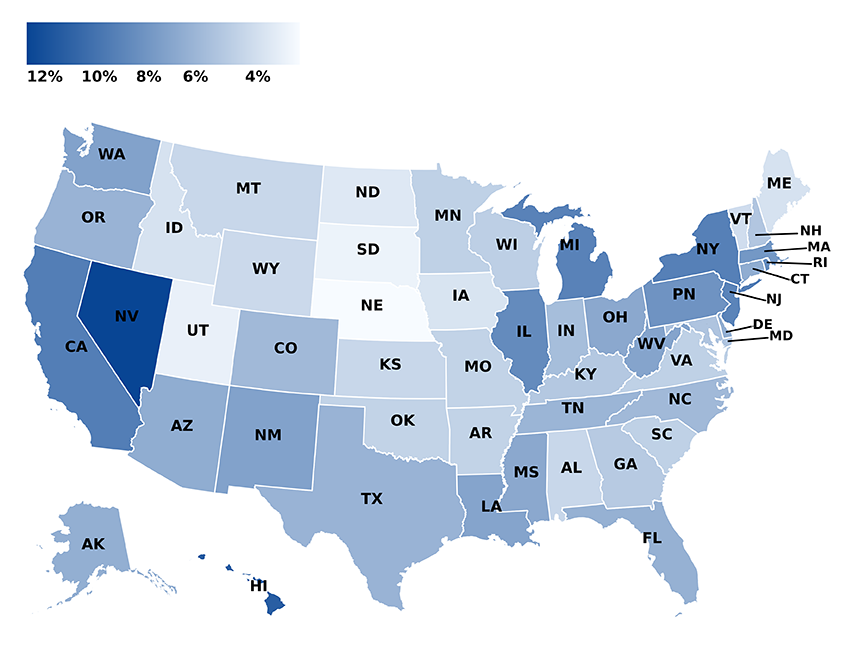
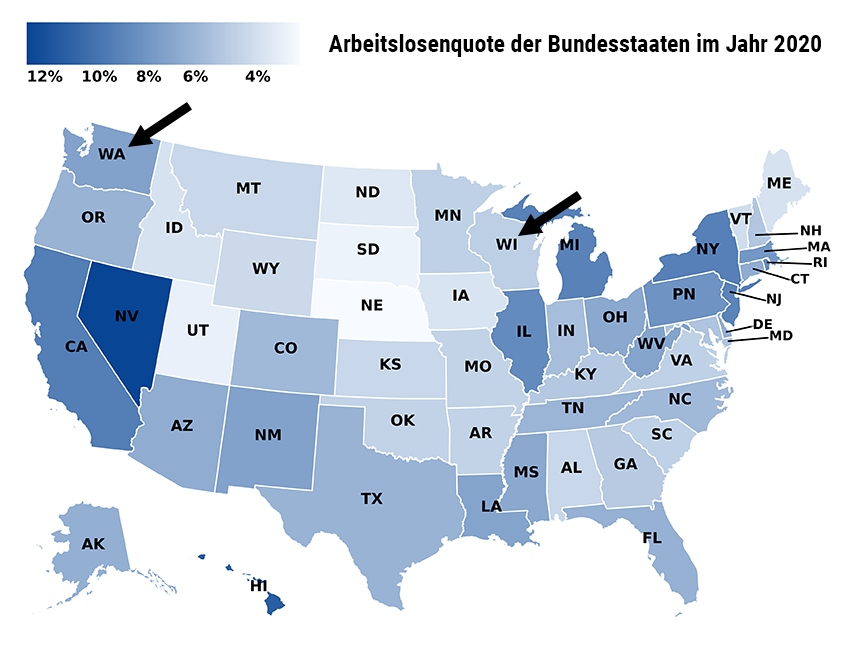
fix: update image references in index.md to new chart files and update image files

diff --git a/src/index.md b/src/index.md
@@ -2018,7 +2018,7 @@ const miniVlatImageUrls = {
   mv1: await FileAttachment("./data/de/TreeMap.png").url(),
   mv2: await FileAttachment("./data/de/Stacked100.png").url(),
   mv3: await FileAttachment("./data/de/Histogram.png").url(),
-  mv4: await FileAttachment("./data/de/Choropleth.png").url(),
+  mv4: await FileAttachment("./data/de/Choropleth_New.png").url(),
   mv5: await FileAttachment("./data/de/PieChart.png").url(),
   mv6: await FileAttachment("./data/de/BubbleChart.png").url(),
   mv7: await FileAttachment("./data/de/StackedBar.png").url(),
@@ -3336,12 +3336,21 @@ ${answerSleepInputD}
 
 </div>
 <div class="scroll-section card" data-step="18">
-Schaut man nur auf die Mediane, könnte man meinen: Die Werte der Männer liegen klar über denen der Frauen. Blicken wir jedoch auf die Verteilungen, zeigt sich, dass es längst nicht so eindeutig ist. Gleichzeitig wird die Interpretation dadurch anspruchsvoller.
+
+Bisher haben wir uns, wie eingangs beschrieben, auf eine große Datenmenge von über 150.000 Personen bezogen.
+Die folgenden 4 Fragen drehen sich um den Vergleich von zwei kleineren Gruppen. Dafür wurden aus der großen Gruppe zufällig 200 gleichaltrige Personen ausgewählt und in zwei Gruppen aufgeteilt: Gruppe A und Gruppe B, jeweils mit 100 Personen.
+
+Obwohl alle Personen gleich alt sind, kann es durch die zufällige Auswahl passieren, dass die Gruppen unterschiedlich lange schlafen. Zum Beispiel könnte in einer Gruppe zufällig ein größerer Anteil an Langschläfern sein als in der anderen. Es kann aber auch sein, dass sich die Gruppen in ihrer Schlafdauer sehr ähnlich sind.
+
+In den folgenden 4 Fragen sehen Sie jeweils die Schlafdauer-Verteilungen beider Gruppen nebeneinander.
+Stellen Sie sich 100 zufällige Vergleiche vor: Jedes Mal wählen Sie gedanklich eine Person aus Gruppe A und eine Person aus Gruppe B und vergleichen deren Schlafdauer.
 
 ---
 
 ${(variant === "all" ? Object.keys(plotsA) : [variant])
 .map(k => resize((width) => plotsA[k](width)))}
+
+Wie häufig kommt es vor, dass eine Person aus Gruppe A kürzer schläft, als eine Person aus Gruppe B?
 
 ${estimateInputQuantityA}
 
@@ -3352,12 +3361,11 @@ ${answerQuantityInputA}
 
 </div>
 <div class="scroll-section card" data-step="19">
-Schaut man nur auf die Mediane, könnte man meinen: Die Werte der Männer liegen klar über denen der Frauen. Blicken wir jedoch auf die Verteilungen, zeigt sich, dass es längst nicht so eindeutig ist. Gleichzeitig wird die Interpretation dadurch anspruchsvoller.
-
----
 
 ${(variant === "all" ? Object.keys(plotsB) : [variant])
 .map(k => resize((width) => plotsB[k](width)))}
+
+Wie häufig kommt es vor, dass eine Person aus Gruppe A kürzer schläft, als eine Person aus Gruppe B?
 
 ${estimateInputQuantityB}
 
@@ -3370,10 +3378,10 @@ ${answerQuantityInputB}
 <div class="scroll-section card" data-step="20">
 Schaut man nur auf die Mediane, könnte man meinen: Die Werte der Männer liegen klar über denen der Frauen. Blicken wir jedoch auf die Verteilungen, zeigt sich, dass es längst nicht so eindeutig ist. Gleichzeitig wird die Interpretation dadurch anspruchsvoller.
 
----
-
 ${(variant === "all" ? Object.keys(plotsC) : [variant])
 .map(k => resize((width) => plotsC[k](width)))}
+
+Wie häufig kommt es vor, dass eine Person aus Gruppe A kürzer schläft, als eine Person aus Gruppe B?
 
 ${estimateInputQuantityC}
 
@@ -3386,10 +3394,10 @@ ${answerQuantityInputC}
 <div class="scroll-section card" data-step="21">
 Schaut man nur auf die Mediane, könnte man meinen: Die Werte der Männer liegen klar über denen der Frauen. Blicken wir jedoch auf die Verteilungen, zeigt sich, dass es längst nicht so eindeutig ist. Gleichzeitig wird die Interpretation dadurch anspruchsvoller.
 
----
-
 ${(variant === "all" ? Object.keys(plotsD) : [variant])
 .map(k => resize((width) => plotsD[k](width)))}
+
+Wie häufig kommt es vor, dass eine Person aus Gruppe A kürzer schläft, als eine Person aus Gruppe B?
 
 ${estimateInputQuantityD}
 
